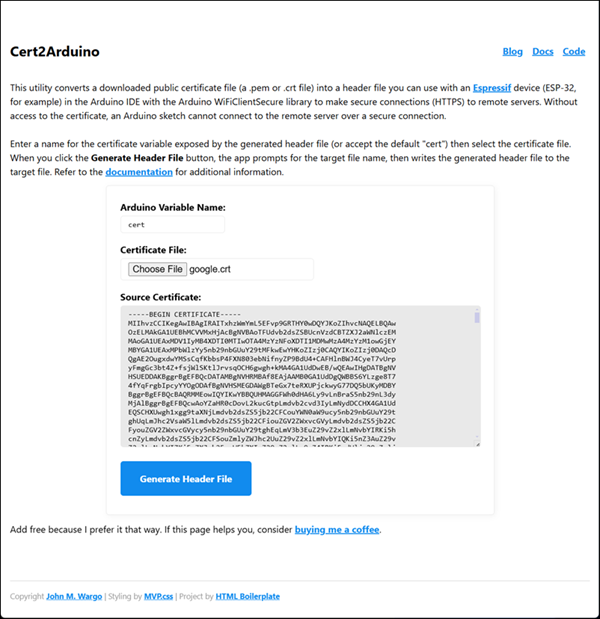
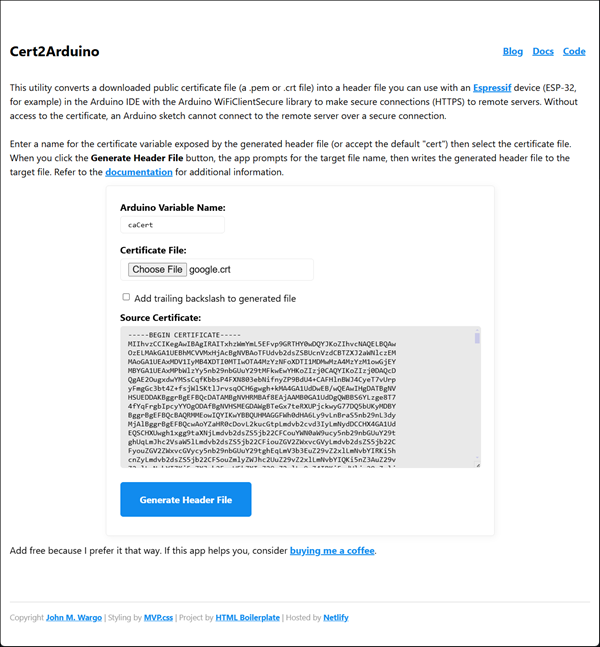
updated content for the new checkbox

diff --git a/readme.md b/readme.md
@@ -6,8 +6,6 @@ A simple web application that allows visitors to convert a downloaded certificat
 
 ## Open Tasks
 
-- [x] Update readme
-- [ ] Write wiki page
 - [ ] App icon
 - [ ] Validate that the input variable name is valid in C.
 - [ ]
@@ -64,7 +62,6 @@ Making those changes to the certificate file isn't impossible, but at 184 lines 
 
 That's why you're here.
 
-
 ## Operation
 
 To use the utility, you must download a server's public key into a `.pem` or `.crt` file. I'm not going to show you how to do that here, just follow the instructions found online. Here's a good example: [How to Download the SSL Certificate From a Website in Windows](https://www.instructables.com/How-to-Download-the-SSL-Certificate-From-a-Website/).
@@ -78,6 +75,8 @@ Enter a name for the certificate variable exposed by the generated header file (
 > A valid C variable name can contain letters, digits, and underscores, but must always start with a letter or an underscore; it cannot start with a number, contain spaces, or use reserved keywords like "int" or "float" - examples include: "age", "my_variable", "totalSum", "x", "y".
 
 Reference: [C Variable Names (Identifiers)](https://www.w3schools.com/c/c_variables_names.php).
+
+I found that the Arduino Compiler doesn't care if the file has the continuation character (`\`) appended at the end of each line (except for the last one), so I added a checkbox you can use to enable or disable that in the output.
 
 Next, click the **Chose File** button and navigate to the folder location where you stored the public certificate file. Select the file then click the **Open** button as shown in the example below. If you're on macOS or Linux, this may look a little different but the process is generally the same.
 
